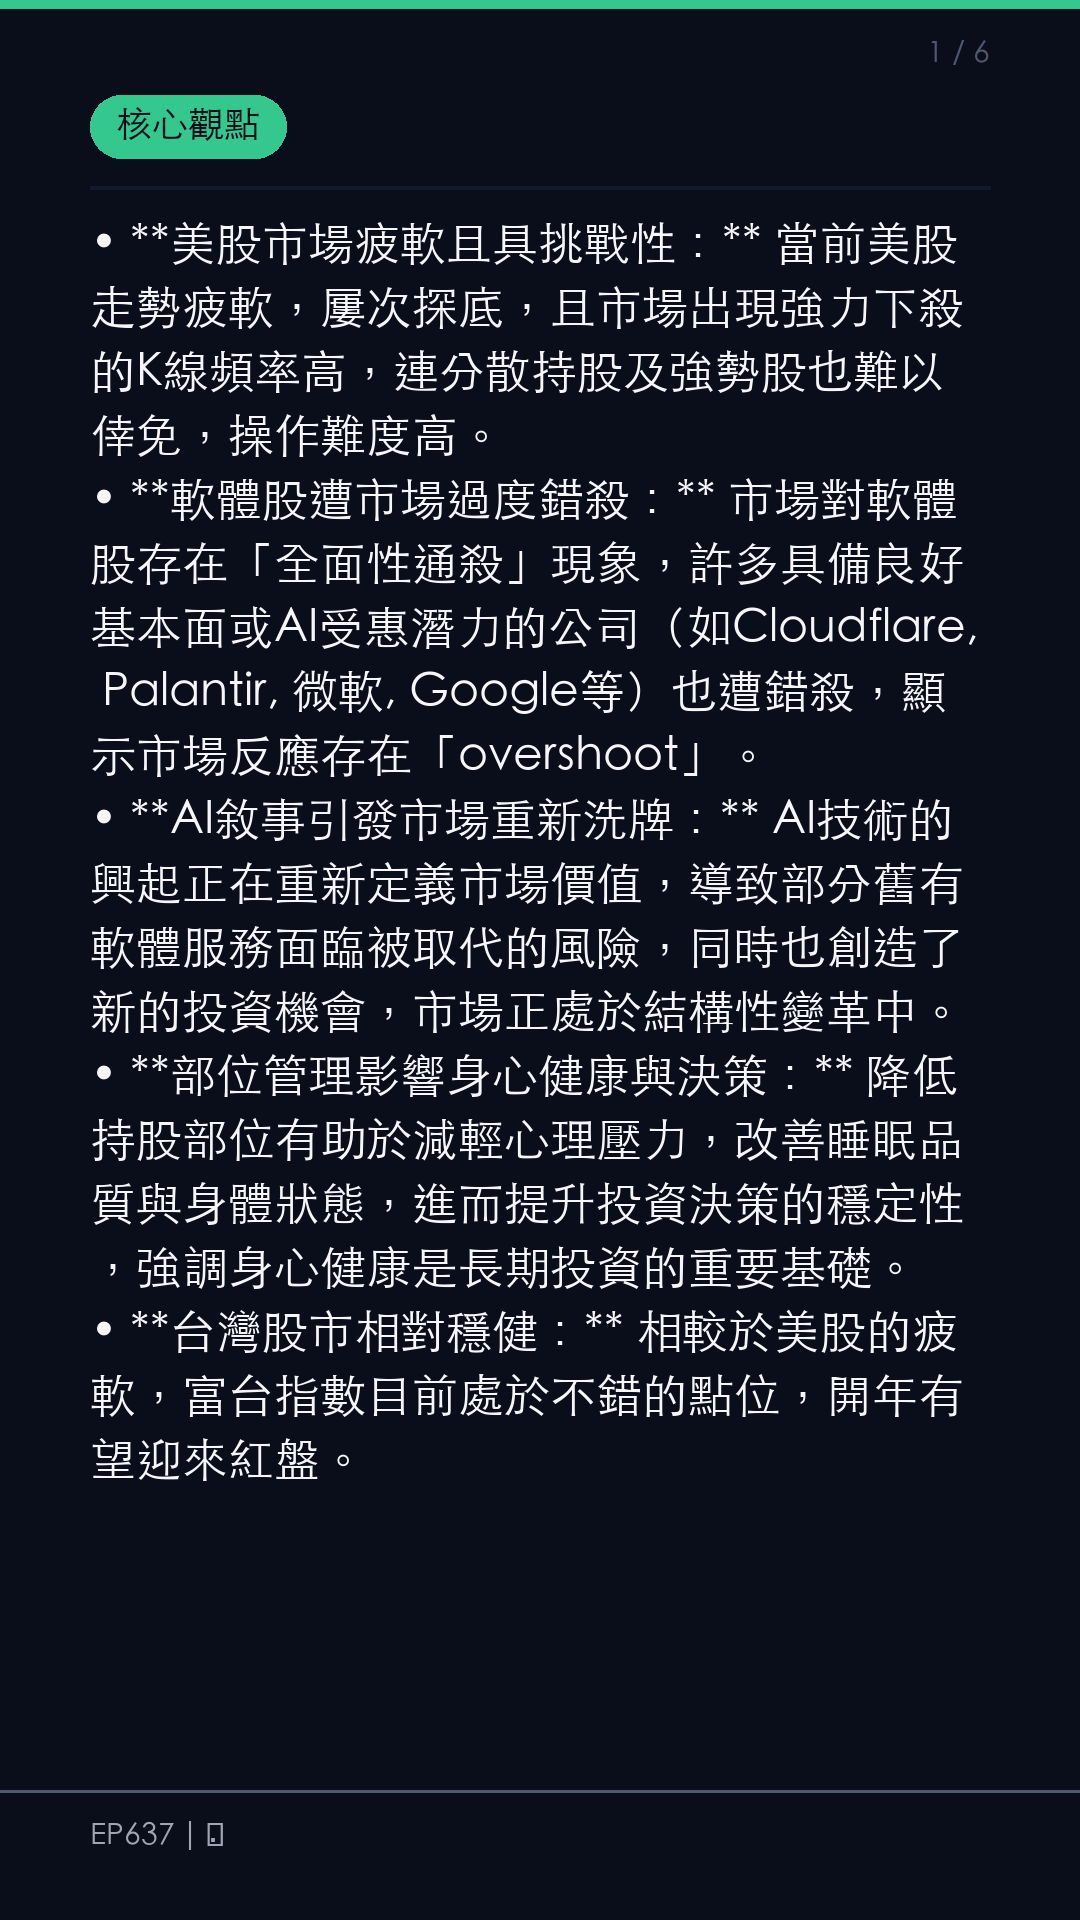
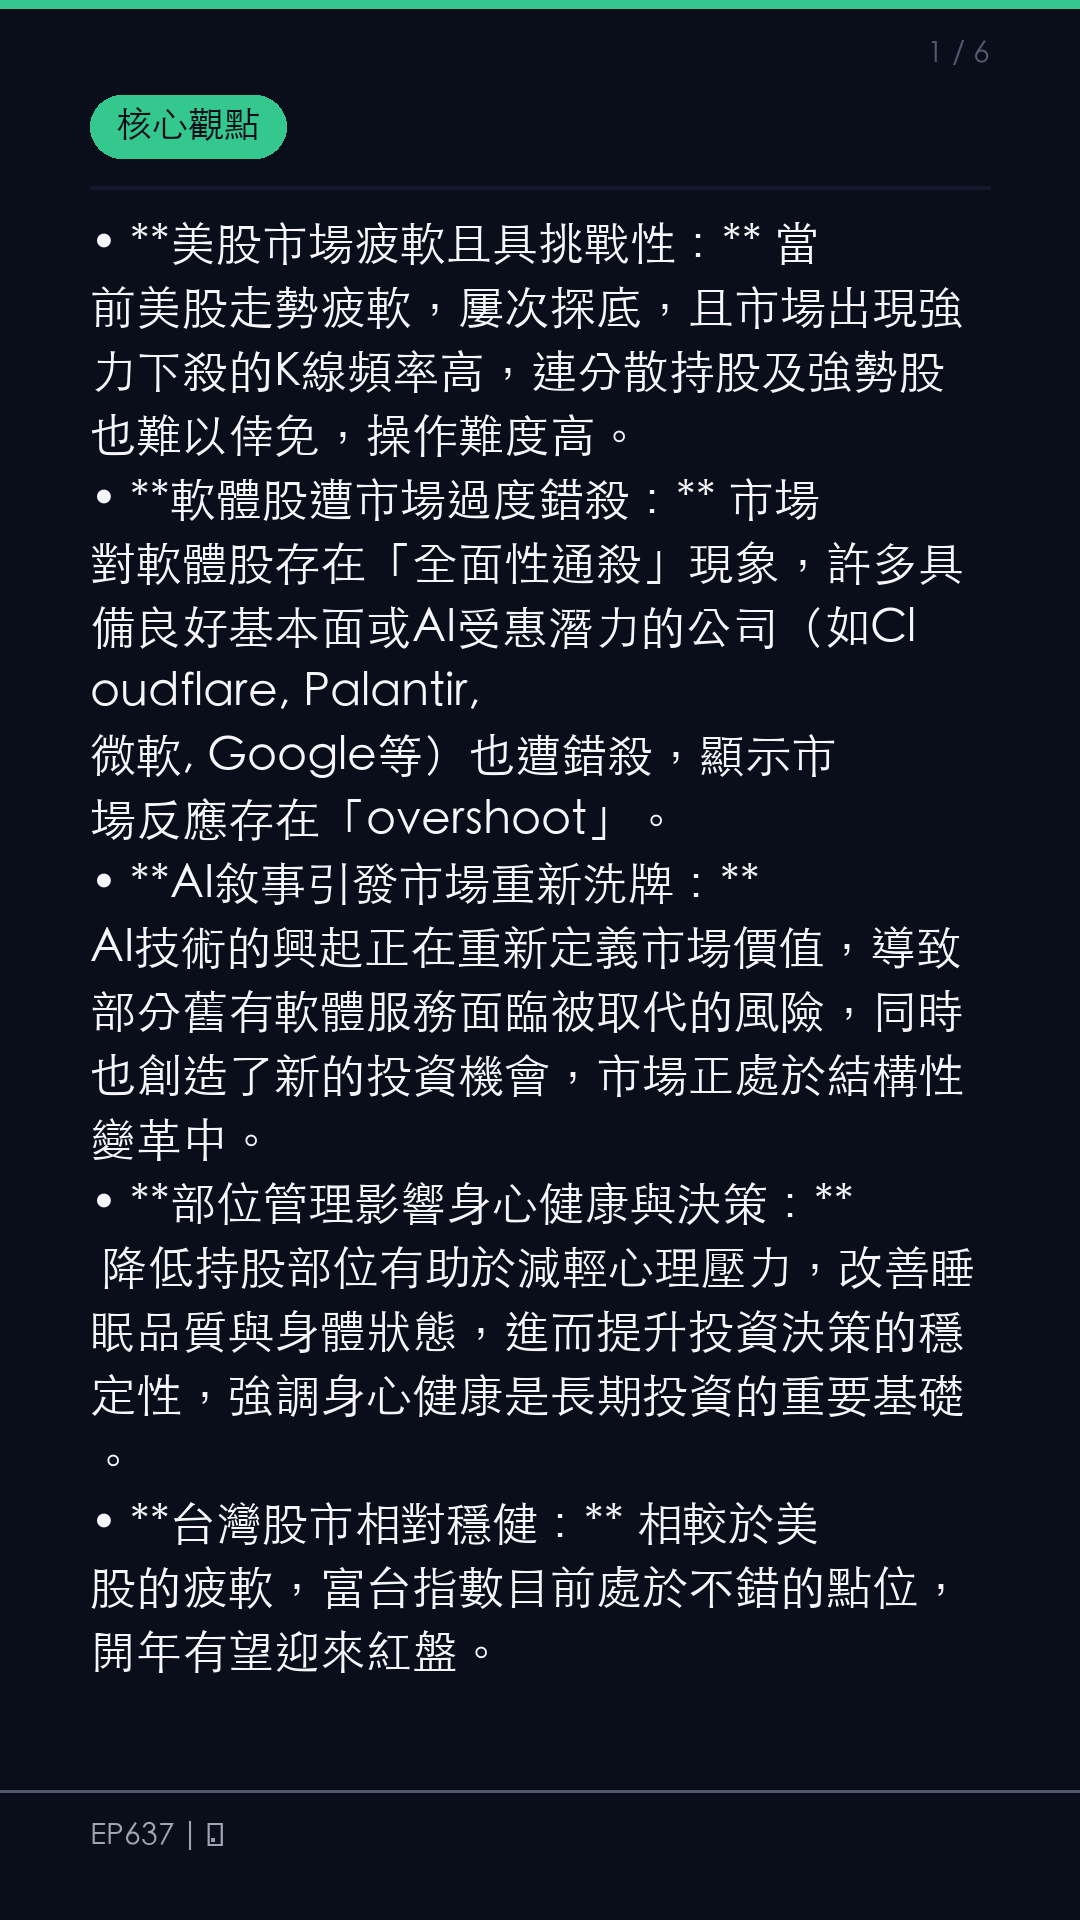
fix: limit card text to 20 chars per line, rename label to 精華字卡

Changed region(s): [[0.0917, 0.25, 0.9167, 0.875], [0.0917, 0.0938, 0.8861, 0.25]]

diff --git a/docs/index.html b/docs/index.html
@@ -556,7 +556,7 @@ header {
       <button class="modal-close" id="modalClose">✕</button>
     </div>
     <div class="cards-strip" id="cardsStrip" style="display:none">
-      <div class="cards-strip-label">字卡預覽</div>
+      <div class="cards-strip-label">精華字卡</div>
       <div class="cards-scroll" id="cardsScroll"></div>
     </div>
     <div class="modal-body" id="modalBody">

diff --git a/backend/card_generator.py b/backend/card_generator.py
@@ -62,7 +62,7 @@ def _wrap_text(text: str, font: ImageFont.FreeTypeFont, max_width: int, draw: Im
         current = ""
         for char in paragraph:
             test = current + char
-            if draw.textlength(test, font=font) <= max_width:
+            if draw.textlength(test, font=font) <= max_width and len(test) <= 20:
                 current = test
             else:
                 if current:
